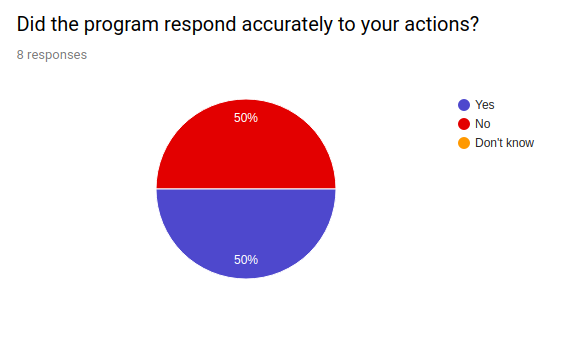
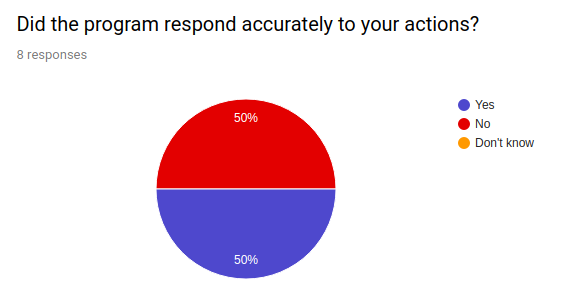
resizing some pictures and stuff

diff --git a/include/Evaluation.tex b/include/Evaluation.tex
@@ -235,7 +235,7 @@ In addition to this question the participants were able to give a comment, if th
 
  \begin{quote}
  	
- 	\textit{I had a hard time knowing where the client was on the glass plate compared to the items. Sometimes there were some \todo{inconsistency?}consistency in where i placed the item and where it appeared, but i got the hang of it eventually}\\
+ 	\textit{I had a hard time knowing where the client was on the glass plate compared to the items. Sometimes there were some consistency in where i placed the item and where it appeared, but i got the hang of it eventually}\\
   \end{quote}
   
   \begin{quote}
@@ -265,17 +265,17 @@ As it can be seen in \autoref{fig:pie3}, half of the participants stated that th
 	\label{fig:pie3}
 \end{figure}
 
-In addition to this question, we asked the participants who answered no to this question, to elaborate on their answer.\\
+In addition to this question, we asked the participants who answered no to this question, to elaborate on their answer:\\
 
-\begin{quote}\todo{Explain these quotes, can't just let them speak for themselves}
-	\textit{bugged out, so it did not show the items in VR}\\
+\begin{quote}
+	\textit{It bugged out, so it did not show the items in VR}\\
 \end{quote}
 
 \begin{quote}
 	\textit{No rotation}\\
 \end{quote}
 
-As seen above, one of the participants had some issues with the prototype bugging, and sometimes not showing the object in the VR world. Others complained that it was not possible to rotate the objects, which resulted in the client not having to see how the garden would look like exactly\todo{Rewrite. Doesn't make any sense}.
+As seen above, one of the participants had some issues with the prototype bugging, and sometimes not showing the object in the VR world. Others complained that it was not possible to rotate the objects, which resulted in the client not having to see how the garden would look like exactly.
 
 
 \subsection{Findings}
